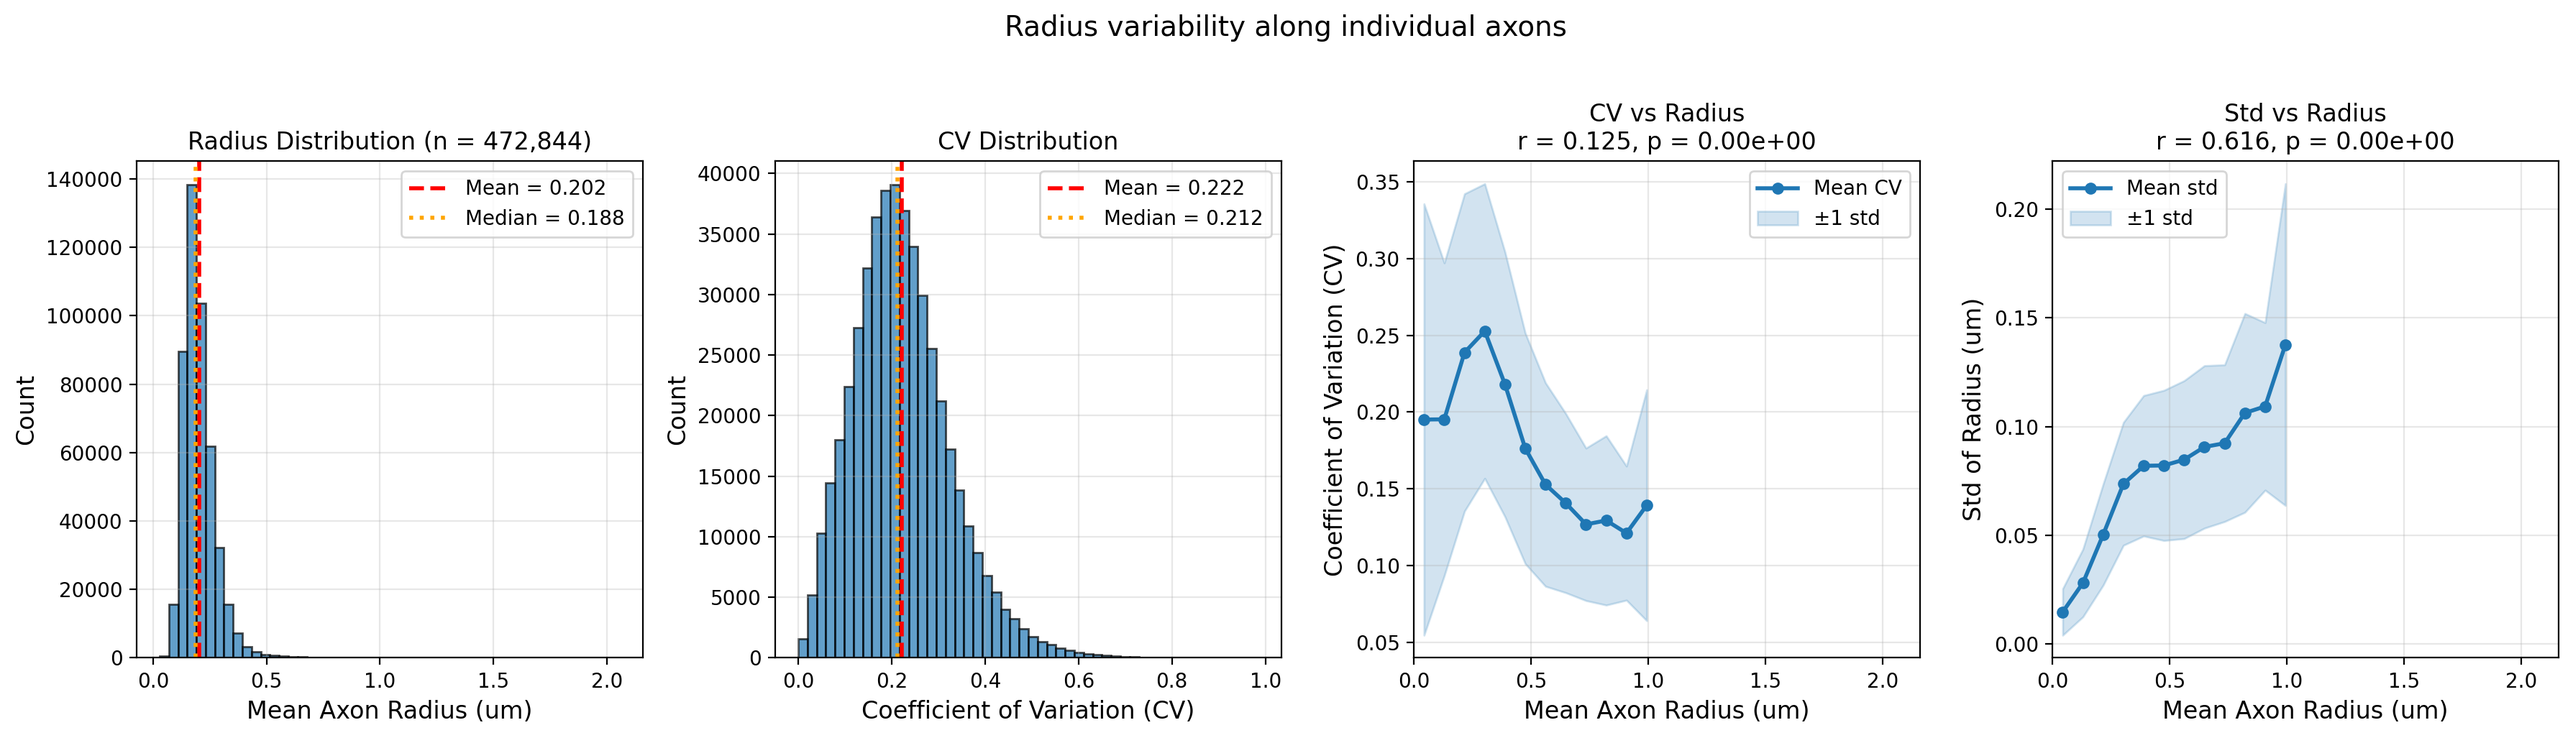
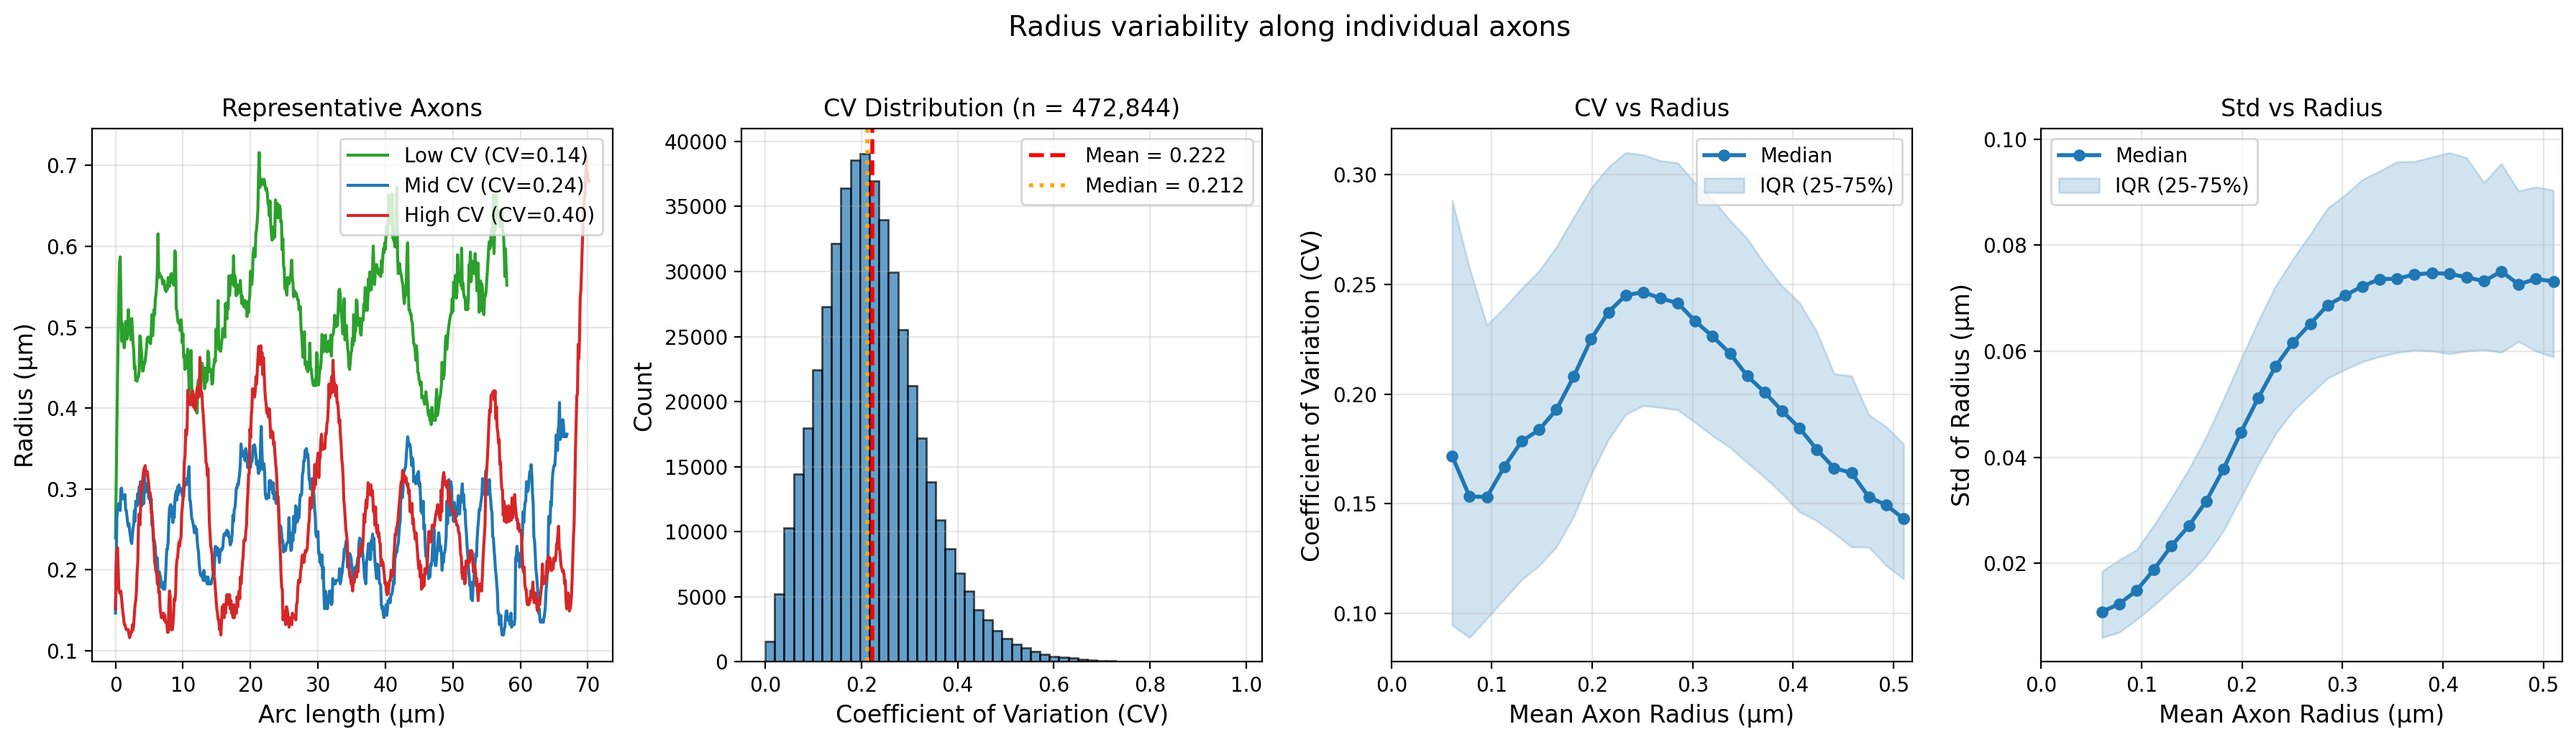
Add representative axon profiles and switch to median/IQR statistics
Replace radius histogram panel with representative axon profiles showing
low/mid/high CV examples. Update CV vs radius and Std vs radius panels
to use median with IQR bands instead of mean±std for more robust statistics.
Also document LM vs HM magnification distinction in CLAUDE.md.

🤖 Generated with [Claude Code](https://claude.com/claude-code)

Changed region(s): [[0.0, 0.1246, 1.0, 0.9971], [0.3723, 0.0, 0.6205, 0.0623]]

diff --git a/docs/ai/CLAUDE.md b/docs/ai/CLAUDE.md
@@ -11,6 +11,9 @@ This repository contains Python-based analysis and figure generation code for th
 - 2 rats with TBI (traumatic brain injury), 3 rats with sham operation
 - Each rat has both ipsilateral and contralateral hemisphere volumes
 - Multiple white matter tract populations identified by orientation-based clustering
+- Available in two magnifications:
+  - **LM (Low Magnification)**: Primary dataset for all manuscript figures and analyses
+  - **HM (High Magnification)**: Small test set for algorithm validation only; data too limited to report
 - Used for: along-bundle stability analysis, effective radius profiles
 
 **2. Human Corpus Callosum 2D Light Microscopy Data** (`data/raw_LM/`)
